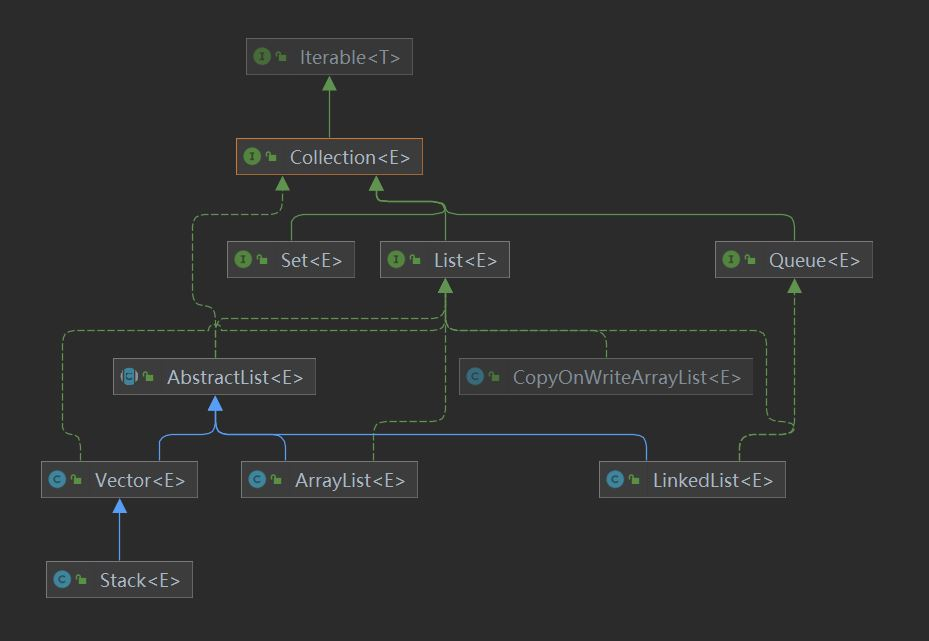
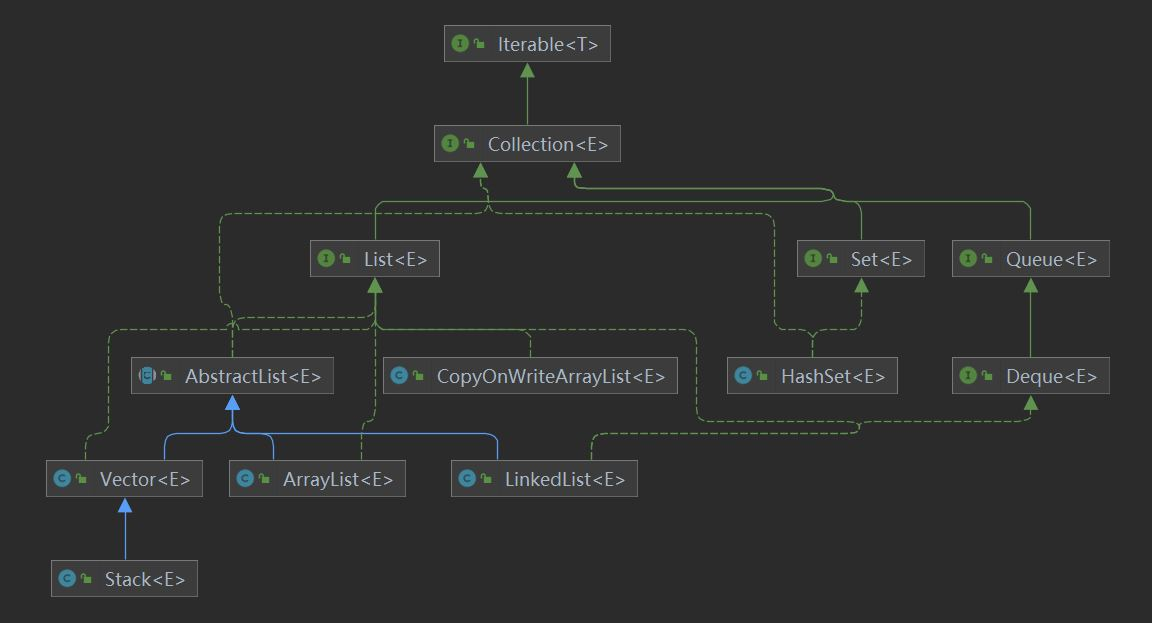
add hash set, vector

diff --git a/src/data_structure/base_structures/collections/set/BaseHashSet.java b/src/data_structure/base_structures/collections/set/BaseHashSet.java
@@ -1,0 +1,21 @@
+package data_structure.base_structures.collections.set;
+
+// Set<E>接口的实现:
+// HashSet<E>       不保证迭代的顺序，顺序不固定，存储元素不重复
+// LinkedHashSet<E> 迭代顺序和插入映射中顺序一致
+// SortedSet<E>     严格排序
+// TreeSet<E>       通过Tree实现对key的自然排序
+public class BaseHashSet {
+
+    // TODO: HashSet<E>背后的基本实现: 使用HashMap的key来实现(不重复)
+    // private transient HashMap<E,Object> map;
+    //
+    // // HashMap value值存储的Dummy对象
+    // // Dummy value to associate with an Object in the backing Map
+    // private static final Object PRESENT = new Object();
+    //
+    // // 通过HashMap的key来判断是否存在 ==> 判断元素是否存在，只需O(1)的时间复杂度
+    // public boolean contains(Object o) {
+    //    return map.containsKey(o);
+    // }
+}

diff --git a/src/data_structure/base_structures/tree/BaseTrees.java b/src/data_structure/base_structures/tree/BaseTrees.java
@@ -10,7 +10,8 @@ import data_structure.base_structures.tree.base.TreeLinkNode;
 //      Unbalanced BST     左右子树不平衡
 // 4. AVL Tree             完全自平衡二叉查找树(完全平衡)
 //      Red–black Tree     红黑树，平衡树(只保证黑色结点平衡)/ TreeMap的实现
-// 5. Complete Binary Tree 完全二叉树, 堆(Heap)
+// 5. Complete Binary Tree 完全二叉树
+//    Heap                 堆
 //
 // 6. Segment Tree         片段树/Binary Indexed Tree二叉索引树
 // 7. Decision Tree        决策树(机器学习中的判断数)

diff --git a/src/data_structure/base_structures/collections/BaseCollections.java b/src/data_structure/base_structures/collections/BaseCollections.java
@@ -1,0 +1,9 @@
+package data_structure.base_structures.collections;
+
+// TODO: List和Set的三个区别
+// 1. List中允许插入重复的元素，而在Set中不允许重复元素存在
+// 2. List是有序集合，会保留元素插入时的顺序，Set是无序集合
+// 3. List可以通过index下标来访问，而Set不能使用index来直接获取元素
+public class BaseCollections {
+    
+}

diff --git a/src/data_structure/base_structures/collections/vector/BaseVector.java b/src/data_structure/base_structures/collections/vector/BaseVector.java
@@ -1,0 +1,6 @@
+package data_structure.base_structures.collections.vector;
+
+// Vector: 类型安全的集合, C++老版本类型
+// class Vector<E> extends AbstractList<E> implements List<E>,
+public class BaseVector {
+}

diff --git a/src/data_structure/base_structures/collections/set/RandomizedSet.java b/src/data_structure/base_structures/collections/set/RandomizedSet.java
@@ -1,4 +1,4 @@
-package data_structure.base_structures.hash_table.hash_map;
+package data_structure.base_structures.collections.set;
 
 import java.util.*;
 

diff --git a/src/interview/OtherQuestion.java b/src/interview/OtherQuestion.java
@@ -1,4 +1,4 @@
-package interview.other;
+package interview;
 
 import java.util.List;
 
